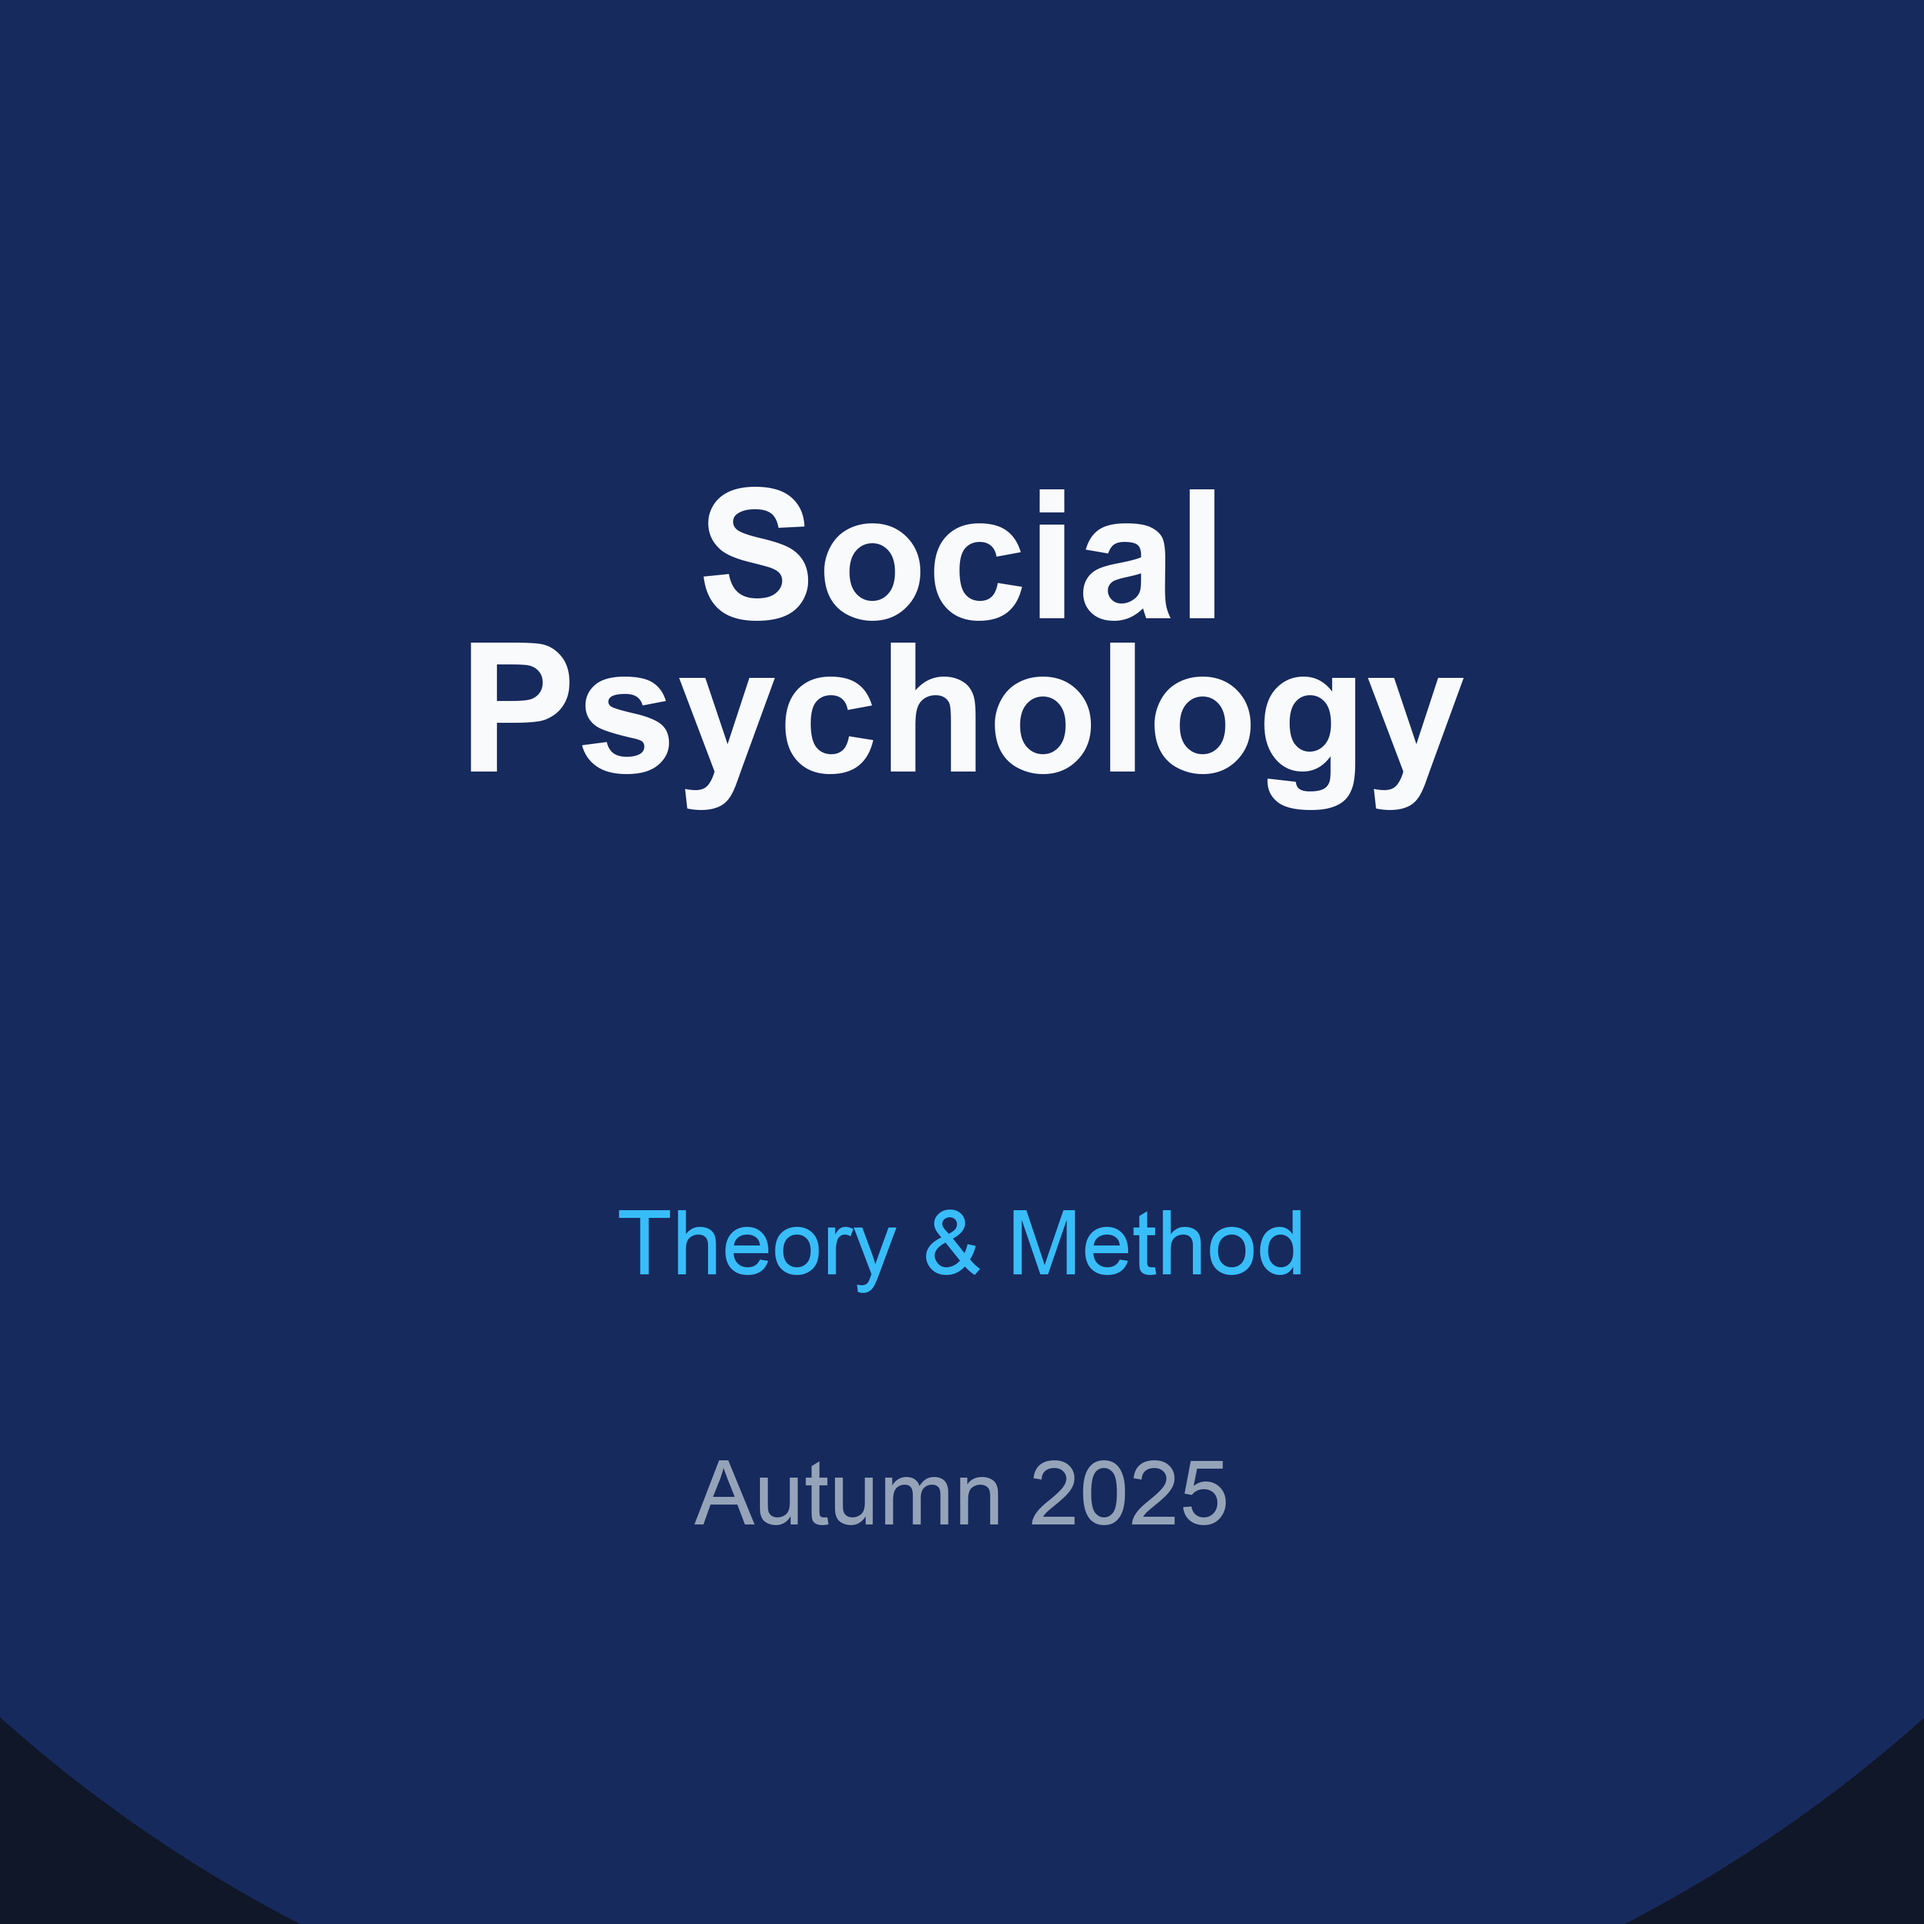
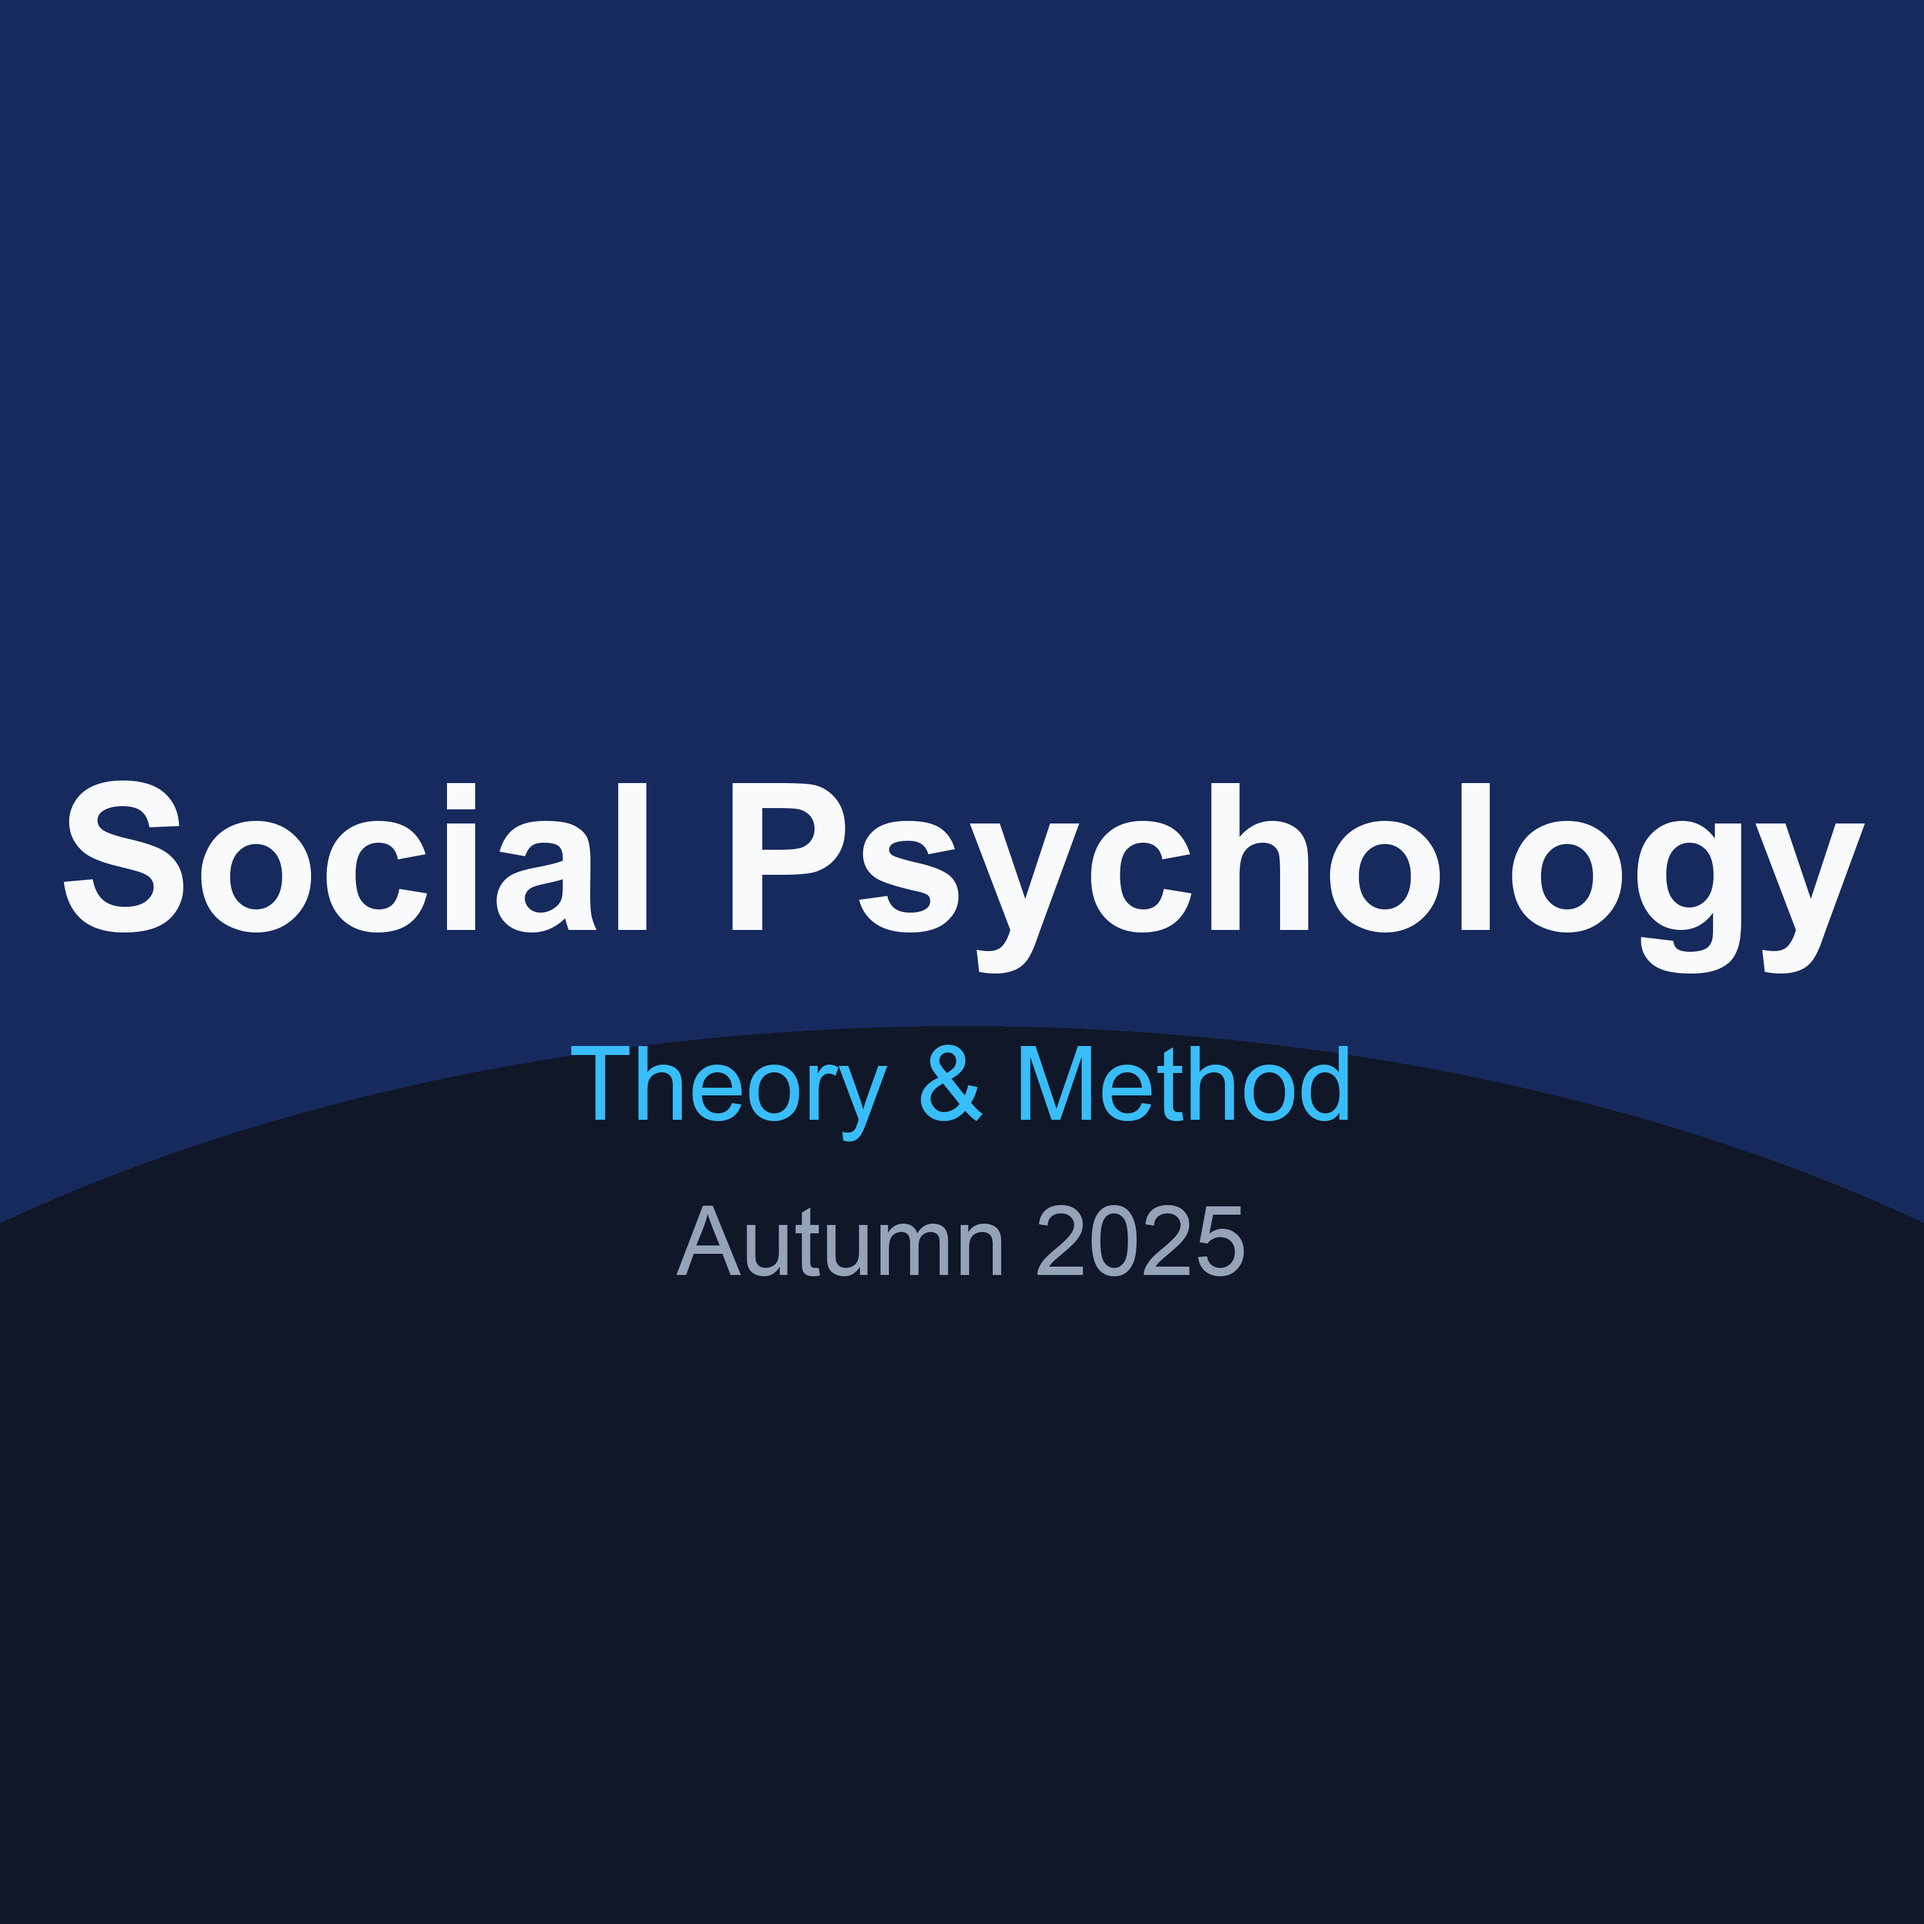
Implement code changes to enhance functionality and improve performance

diff --git a/shows/README.md b/shows/README.md
@@ -6,3 +6,16 @@ Each subdirectory contains config and assets for a single podcast feed. The CI w
 - `intro-vt` – Intro + VT series; keep the Drive folder ID current and the workflow will publish automatically.
 
 Add new shows by creating a sibling directory that mirrors this structure, then add the folder name to the matrix in `.github/workflows/generate-feed.yml` and to the Apps Script `CONFIG.drive.folderIds` list.
+
+## Cover artwork style
+
+All shows share a simple, reproducible square cover that scales cleanly for podcast apps. When adding a new show, keep these rules so the artwork stays consistent:
+
+- **Canvas**: 3000×3000 px, solid background in the show’s primary colour (`RGB`).
+- **Foreground arc**: a lower semicircle/ellipse that spans the width of the canvas; use the primary colour darkened ~25 % for subtle depth.
+- **Typography**: Arial Bold (320 pt) for the title, centred horizontally near the upper third; Arial Regular for supporting lines (≈160 pt for the subtitle, ≈150 pt for metadata).
+- **Colour roles**: title in near-white (`#F8FAFC`), subtitle in a bright accent tint of the palette, metadata in a muted grey-green (`#86A092`). Adjust only the primary/accent colours when giving each show its identity.
+- **Layout rhythm**: keep roughly 140 px between title/subtitle and 100 px between subtitle/metadata. Reserve the top ~35 % for text so the lower arc stays visible.
+- **Automation**: the artwork can be regenerated with Pillow. See `shows/intro-vt/assets/cover.png`’s generation script in this repo history (or reuse the Python snippet in the conversation) and swap the colour constants to match the show.
+
+Save the final PNG as `shows/<show>/assets/cover.png`. Preview at full size to confirm text contrast meets accessibility expectations before publishing.
